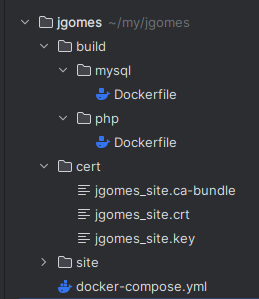
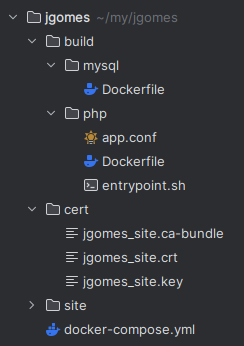
Add improvements do the documentation about the project setup

diff --git a/public/cs/setup/README.md b/public/cs/setup/README.md
@@ -1,4 +1,40 @@
-## Advanced setup ( Infra configs )
+<p align="center"><a href="https://laravel.com" target="_blank"><img src="https://raw.githubusercontent.com/laravel/art/master/logo-lockup/5%20SVG/2%20CMYK/1%20Full%20Color/laravel-logolockup-cmyk-red.svg" width="400"></a></p>
+
+<p align="center">
+<a href="https://travis-ci.org/laravel/framework"><img src="https://travis-ci.org/laravel/framework.svg" alt="Build Status"></a>
+<a href="https://packagist.org/packages/laravel/framework"><img src="https://img.shields.io/packagist/dt/laravel/framework" alt="Total Downloads"></a>
+<a href="https://packagist.org/packages/laravel/framework"><img src="https://img.shields.io/packagist/v/laravel/framework" alt="Latest Stable Version"></a>
+<a href="https://packagist.org/packages/laravel/framework"><img src="https://img.shields.io/packagist/l/laravel/framework" alt="License"></a>
+</p>
+
+## About this CV project
+
+This website is just a digital and simple project to show my CV and my WOW to the world.
+The storage of this project was home made, so this is a private server in my personal network, with multiple containers that work as services where is only mandatory to have the web server accessible outside of my internal network. The rest of the services are internal.
+
+It was build with:
+
+- [Laravel 10](https://laravel.com/docs/10.x/)
+- [PHP 8.1](https://www.php.net/)
+- [PHPUnit 10 tests](https://phpunit.de/)
+- [PSR-2 guide lines](https://www.php-fig.org/psr/psr-2/)
+- [Apache2](https://httpd.apache.org/)
+- [MYSQL 8.2](https://www.mysql.com/)
+- [PHPMyAdmin 5.2.1](https://www.phpmyadmin.net/)
+- [SSL ( Namecheap certificate )](https://www.namecheap.com/)
+- [RabbitMQ 3.12.9](https://www.rabbitmq.com/)
+- [APCu](https://www.php.net/manual/en/book.apcu.php)
+- [HTML + CSS + JS ( Jquery ) - ( Credits to www.themezy.com ) ](https://www.themezy.com/free-website-templates/151-ceevee-free-responsive-website-template)
+- [Docker ( with docker-compose - See 'Infra configs' next )](https://docs.docker.com/compose/)
+
+## TR/DR setup
+- git clone git@github.com:jfgomes/site-jgomes.git
+- composer update
+- cp .env.example .env ( Need to add the configs to .env )
+- php artisan key:generate
+- php artisan serve --port=90 ( The port is not mandatory. By default is 80 )
+
+## Infra configs
 
 docker-composer:
 
@@ -8,10 +44,12 @@ services:
   php-apache:
     restart: always
     ports:
-      - "8090:80"
+      - "8888:81"
     build: './build/php'
     volumes:
-      - ./site:/var/www/html  
+      - ./site:/var/www/html
+    depends_on:
+      - mysql
   mysql:
     ports:
       - "3406:3306"
@@ -30,7 +68,8 @@ services:
     environment:
       PMA_HOST: mysql
       MYSQL_ROOT_PASSWORD: "" 
-      MYSQL_USER: "root" 
+      MYSQL_USER: ""
+
 volumes:
   app:
   dbData:
@@ -41,8 +80,111 @@ volumes:
 ```
 FROM php:8.1-apache
 
-RUN apt-get update && \
-    docker-php-ext-install mysqli pdo pdo_mysql
+# Copy entrypoint to container and make it our door to enter on
+COPY entrypoint.sh /sbin/entrypoint.sh
+RUN chmod +x /sbin/entrypoint.sh
+
+# Update package lists and install dependencies
+RUN apt-get update \
+    && apt-get install -y \
+        libzip-dev \
+        unzip \
+        git \
+        libonig-dev
+
+# Install required PHP extensions
+RUN docker-php-ext-install mysqli pdo pdo_mysql
+
+# Install Composer globally
+RUN curl -sS https://getcomposer.org/installer | php -- --install-dir=/usr/local/bin --filename=composer
+
+# Configure Apache to use the 'public' directory as DocumentRoot
+ENV APACHE_DOCUMENT_ROOT /var/www/html/public
+RUN sed -ri -e 's!/var/www/html!${APACHE_DOCUMENT_ROOT}!g' /etc/apache2/sites-available/*.conf
+RUN sed -ri -e 's!/var/www/!${APACHE_DOCUMENT_ROOT}!g' /etc/apache2/apache2.conf /etc/apache2/conf-available/*.conf
+
+# Create the working directory and copy the Dockerfile and necessary files
+WORKDIR /var/www/html
+
+# Activate rewrie
+RUN a2enmod rewrite
+
+# Copy vhost to container nad activate it
+COPY app.conf /etc/apache2/sites-available/
+RUN a2dissite 000-default
+RUN a2ensite app.conf
+
+# Expose port 81
+EXPOSE 81
+
+CMD ["/sbin/entrypoint.sh"]
+```
+app.conf
+```
+Listen 81
+<VirtualHost *:81>
+  ServerAdmin admin@localhost
+  ServerName localhost
+  DocumentRoot /var/www/html/public
+  ErrorLog /var/log/apache2/error.log
+  CustomLog /var/log/apache2/access.log combined
+ <Directory /var/www/html/public>
+    Options FollowSymLinks
+    AllowOverride None
+    AddDefaultCharset utf-8
+    DirectoryIndex index.php
+    Require all granted
+    <IfModule mod_rewrite.c>
+        RewriteEngine On
+
+        # Handle Authorization Header
+        RewriteCond %{HTTP:Authorization} .
+        RewriteRule .* - [E=HTTP_AUTHORIZATION:%{HTTP:Authorization}]
+
+        # Redirect Trailing Slashes If Not A Folder...
+        RewriteCond %{REQUEST_FILENAME} !-d
+        RewriteCond %{REQUEST_URI} (.+)/$
+        RewriteRule ^ %1 [L,R=301]
+
+        # Send Requests To Front Controller...
+        RewriteCond %{REQUEST_FILENAME} !-d
+        RewriteCond %{REQUEST_FILENAME} !-f
+        RewriteRule ^ index.php [L]
+    </IfModule>
+  </Directory>
+</VirtualHost>
+```
+entrypoint.sh
+```
+#!/bin/bash
+
+# Init cron tab
+#cron
+
+# Load env vars
+source /etc/apache2/envvars
+
+# Run composer
+#cd /var/www/html && composer update --no-scripts
+
+# Set 777 to logs files
+cd /var/www/html/ && chmod 777 storage -Rf
+
+# Just give some more seconds to allow mysql to be up and running
+#sleep 30
+
+# Run migrations and seeds
+#cd /var/www/html && php artisan migrate --force --env=local && php artisan db:seed --force --env=local
+
+FILE=/var/www/html/storage/database/db_backup.sql
+if [[ -f "$FILE" ]]; then
+    echo "$FILE exists. Lets restore the db...."
+    cd /var/www/html && php artisan db:backups --env=local
+    echo "Restore done...."
+fi
+
+# Start apache and keep it running
+exec apache2 -D FOREGROUND
 ```
 
 ./build/mysql
@@ -65,7 +207,6 @@ LoadModule headers_module modules/mod_headers.so
 <IfModule mod_ssl.c>
         LoadModule proxy_module modules/mod_proxy.so
         LoadModule proxy_http_module modules/mod_proxy_http.so
-
         <VirtualHost *:443>
 
                 ServerAdmin zx.gomes@gmail.com
@@ -78,22 +219,20 @@ LoadModule headers_module modules/mod_headers.so
                 SSLCertificateChainFile /home/jgomes/my/jgomes/cert/jgomes_site.ca-bundle
 
                 ProxyRequests Off
-
-                ProxyPass / http://localhost:8090/public/
-                ProxyPassReverse / http://localhost:8090/public/
-
+                ProxyPass / http://localhost:8888/
+                ProxyPassReverse / http://localhost:8888/
+        
                 Header set Access-Control-Allow-Origin "*"
                 Header set Access-Control-Allow-Headers "*"
                 Header set Access-Control-Allow-Methods "GET, POST, PUT, DELETE"
                 Header set Access-Control-Expose-Headers "*"
                 Header set Access-Control-Max-Age "900"
 
-             <Location />
-                Order allow,deny
-                Allow from all
-                AllowOverride all
-            </Location>
-        
+                <Location />
+                   Order allow,deny
+                   Allow from all
+                   AllowOverride all
+                </Location>
         </VirtualHost>
 </IfModule>
 ```
@@ -109,22 +248,22 @@ Case I need to open phpMyAdmin to would, just update the vhost with:
 ```
 ######################## START PROXY FOR PHPMYADMIN
 
-# Set proxy
-ProxyPass /phpmyadmin http://localhost:8091/
-ProxyPassReverse /phpmyadmin http://localhost:8091/
+    <Location "/phpmyadmin/">
+        ProxyPass "http://localhost:8091/"
+        ProxyPassReverse "http://localhost:8091/"
 
-# Set PMA_ABSOLUTE_URI to allow the loading off scripts
-SetEnv PMA_ABSOLUTE_URI "/phpmyadmin"
+        # Set PMA_ABSOLUTE_URI to allow the loading off scripts
+        SetEnv PMA_ABSOLUTE_URI "/phpmyadmin"
 
-# Force to set https as this vhost is 443
-RequestHeader set X-Forwarded-Proto "https"
+        # Force to set https as this vhost is 443
+        RequestHeader set X-Forwarded-Proto "https"
 
-# Remove any method restriction for phpMyAdmin
-<Location /phpmyadmin>
-    <LimitExcept OPTIONS>
-        Require all granted
-    </LimitExcept>
-</Location>
+        # Remove any method restriction for phpMyAdmin
+        <LimitExcept OPTIONS>
+            Require all granted
+        </LimitExcept>
+
+    </Location>
 
 ######################## END PROXY REVERSE FOR PHPMYADMIN
 ```
